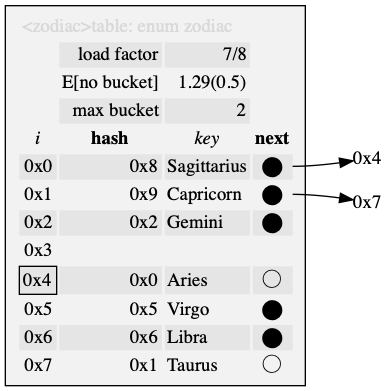
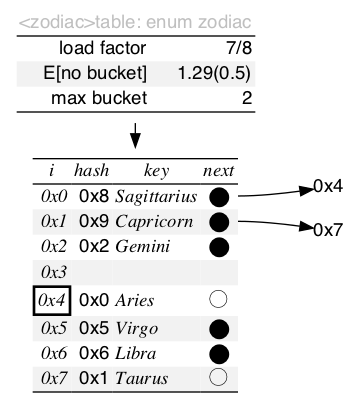
Updated cover picture and docs.

diff --git a/readme.html b/readme.html
@@ -50,7 +50,7 @@
 
 <h2><a id = "preamble:" name = "preamble:">Description</a></h2>
 
-<p><img alt = "Example of &lt;string&gt;table." src = "doc/table.png" width = 388 height = 391></p>
+<p><img alt = "Example of &lt;string&gt;table." src = "doc/table.png" width = 349 height = 407></p>
 
 <p><a href = "#tag:&lt;N&gt;table">&lt;N&gt;table</a> implements a set or map of <a href = "#typedef:&lt;PN&gt;entry">&lt;PN&gt;entry</a> as a hash table. It must be supplied a <a href = "#typedef:&lt;PN&gt;hash_fn">&lt;PN&gt;hash_fn</a> and, <a href = "#typedef:&lt;PN&gt;is_equal_fn">&lt;PN&gt;is_equal_fn</a> or <a href = "#typedef:&lt;PN&gt;inverse_hash_fn">&lt;PN&gt;inverse_hash_fn</a>.</p>
 
@@ -101,9 +101,9 @@
 
 <h3><a id = "typedef:<PN>hash_fn" name = "typedef:<PN>hash_fn">&lt;PN&gt;hash_fn</a></h3>
 
-<p><code>typedef &lt;PN&gt;uint(*<strong>&lt;PN&gt;hash_fn</strong>)(&lt;PN&gt;key_c);</code></p>
+<p><code>typedef &lt;PN&gt;uint(*<strong>&lt;PN&gt;hash_fn</strong>)(const &lt;PN&gt;key);</code></p>
 
-<p>A map from <a href = "#typedef:&lt;PN&gt;key_c">&lt;PN&gt;key_c</a> onto <a href = "#typedef:&lt;PN&gt;uint">&lt;PN&gt;uint</a> that, ideally, should be easy to compute while minimizing duplicate addresses. Must be consistent for each value while in the table. If <a href = "#typedef:&lt;PN&gt;key">&lt;PN&gt;key</a> is a pointer, one is permitted to have null in the domain.</p>
+<p>A map from <a href = "#typedef:&lt;PN&gt;key_c">&lt;PN&gt;key_c</a> onto <a href = "#typedef:&lt;PN&gt;uint">&lt;PN&gt;uint</a>, called <code>&lt;N&gt;hash</code>, that, ideally, should be easy to compute while minimizing duplicate addresses. Must be consistent for each value while in the table. If <a href = "#typedef:&lt;PN&gt;key">&lt;PN&gt;key</a> is a pointer, one is permitted to have null in the domain.</p>
 
 </div>
 
@@ -113,7 +113,7 @@
 
 <p><code>typedef &lt;PN&gt;key(*<strong>&lt;PN&gt;inverse_hash_fn</strong>)(&lt;PN&gt;uint);</code></p>
 
-<p>Defining <code>TABLE_INVERSE</code> says <a href = "#typedef:&lt;PN&gt;hash_fn">&lt;PN&gt;hash_fn</a> forms a bijection between the range in <a href = "#typedef:&lt;PN&gt;key">&lt;PN&gt;key</a> and the image in <a href = "#typedef:&lt;PN&gt;uint">&lt;PN&gt;uint</a>. Keys are not stored in the hash table, rather they are generated using this inverse-mapping.</p>
+<p>Defining <code>TABLE_INVERSE</code> says <a href = "#typedef:&lt;PN&gt;hash_fn">&lt;PN&gt;hash_fn</a> forms a bijection between the range in <a href = "#typedef:&lt;PN&gt;key">&lt;PN&gt;key</a> and the image in <a href = "#typedef:&lt;PN&gt;uint">&lt;PN&gt;uint</a>, and the inverse is called <code>&lt;N&gt;inverse_hash</code>. In this case, keys are not stored in the hash table, rather they are generated using this inverse-mapping.</p>
 
 </div>
 
@@ -123,7 +123,7 @@
 
 <p><code>typedef int(*<strong>&lt;PN&gt;is_equal_fn</strong>)(&lt;PN&gt;key_c a, &lt;PN&gt;key_c b);</code></p>
 
-<p>Equivalence relation between <a href = "#typedef:&lt;PN&gt;key">&lt;PN&gt;key</a> that satisfies <code>&lt;PN&gt;is_equal_fn(a, b) -&gt; &lt;PN&gt;hash(a) == &lt;PN&gt;hash(b)</code>. Can not be set if <code>TABLE_INVERSE</code>, because the comparison is done directly in hash space, in that case.</p>
+<p>Equivalence relation between <a href = "#typedef:&lt;PN&gt;key">&lt;PN&gt;key</a> that satisfies <code>&lt;PN&gt;is_equal_fn(a, b) -&gt; &lt;PN&gt;hash(a) == &lt;PN&gt;hash(b)</code>, called <code>&lt;N&gt;is_equal</code>. If <code>TABLE_INVERSE</code> is set, there is no need for this function because the comparison is done directly in hash space.</p>
 
 </div>
 
@@ -291,9 +291,9 @@
 
 <tr><td align = right>static void</td><td><a href = "#fn:<ITR>trim">&lt;ITR&gt;trim</a></td><td>box, predicate</td></tr>
 
-<tr><td align = right>static &lt;PN&gt;value</td><td><a href = "#fn:<N>table<D>get">&lt;N&gt;table&lt;D&gt;get</a></td><td>table, key</td></tr>
-
 <tr><td align = right>static const char *</td><td><a href = "#fn:<STR>to_string">&lt;STR&gt;to_string</a></td><td>box</td></tr>
+
+<tr><td align = right>static &lt;PN&gt;value</td><td><a href = "#fn:<N>table<D>get">&lt;N&gt;table&lt;D&gt;get</a></td><td>table, key</td></tr>
 
 </table>
 
@@ -681,23 +681,6 @@
 
 <div>
 
-<h3><a id = "fn:<N>table<D>get" name = "fn:<N>table<D>get">&lt;N&gt;table&lt;D&gt;get</a></h3>
-
-<p><code>static &lt;PN&gt;value <strong>&lt;N&gt;table&lt;D&gt;get</strong>(struct &lt;N&gt;table *const <em>table</em>, const &lt;PN&gt;key <em>key</em>)</code></p>
-
-<p>This is functionally identical to <a href = "#fn:&lt;N&gt;table_get_or">&lt;N&gt;table_get_or</a>, but a with a trait specifying a constant default value.</p>
-
-<dl>
-	<dt>Return:</dt>
-	<dd>The value associated with <code>key</code> in <code>table</code>, (which can be null.) If no such value exists, the <code>TABLE_DEFAULT</code> is returned.</dd>
-	<dt>Order:</dt>
-	<dd>Average &#927;(1); worst &#927;(n).</dd>
-</dl>
-
-</div>
-
-<div>
-
 <h3><a id = "fn:<STR>to_string" name = "fn:<STR>to_string">&lt;STR&gt;to_string</a></h3>
 
 <p><code>static const char *<strong>&lt;STR&gt;to_string</strong>(const &lt;PSTR&gt;box *const <em>box</em>)</code></p>
@@ -709,6 +692,23 @@
 	<dd>Address of the static buffer.</dd>
 	<dt>Order:</dt>
 	<dd>&#920;(1)</dd>
+</dl>
+
+</div>
+
+<div>
+
+<h3><a id = "fn:<N>table<D>get" name = "fn:<N>table<D>get">&lt;N&gt;table&lt;D&gt;get</a></h3>
+
+<p><code>static &lt;PN&gt;value <strong>&lt;N&gt;table&lt;D&gt;get</strong>(struct &lt;N&gt;table *const <em>table</em>, const &lt;PN&gt;key <em>key</em>)</code></p>
+
+<p>This is functionally identical to <a href = "#fn:&lt;N&gt;table_get_or">&lt;N&gt;table_get_or</a>, but a with a trait specifying a constant default value.</p>
+
+<dl>
+	<dt>Return:</dt>
+	<dd>The value associated with <code>key</code> in <code>table</code>, (which can be null.) If no such value exists, the <code>TABLE_DEFAULT</code> is returned.</dd>
+	<dt>Order:</dt>
+	<dd>Average &#927;(1); worst &#927;(n).</dd>
 </dl>
 
 </div>

diff --git a/src/table.h b/src/table.h
@@ -856,8 +856,8 @@ static void PN_(unused_base_coda)(void) { PN_(unused_base)(); }
 
 
 #ifdef TABLE_TO_STRING /* <!-- to string trait */
-/** Private <tag:<PN>bucket> would be a confusing thing with which to call
- to string. Insert an extra level of indirection to call this with the key. */
+/** Private `bucket` would be a confusing thing with which to call to string to
+ convert `z`. Insert an extra level of indirection to call this with the key. */
 static void N_(to_string_thunk)(const struct PN_(bucket) *const bucket,
 	char (*const z)[12]) {
 	/* This function must be defined by the user. */

diff --git a/readme.md b/readme.md
@@ -57,9 +57,9 @@ Valid tag type defined by `TABLE_KEY` used for keys\. If `TABLE_INVERSE` is not 
 
 ### <a id = "user-content-typedef-5e79a292" name = "user-content-typedef-5e79a292">&lt;PN&gt;hash_fn</a> ###
 
-<code>typedef &lt;PN&gt;uint(*<strong>&lt;PN&gt;hash_fn</strong>)(&lt;PN&gt;key_c);</code>
+<code>typedef &lt;PN&gt;uint(*<strong>&lt;PN&gt;hash_fn</strong>)(const &lt;PN&gt;key);</code>
 
-A map from [&lt;PN&gt;key_c](#user-content-typedef-46bcab6a) onto [&lt;PN&gt;uint](#user-content-typedef-c13937ad) that, ideally, should be easy to compute while minimizing duplicate addresses\. Must be consistent for each value while in the table\. If [&lt;PN&gt;key](#user-content-typedef-e7af8dc0) is a pointer, one is permitted to have null in the domain\.
+A map from [&lt;PN&gt;key_c](#user-content-typedef-46bcab6a) onto [&lt;PN&gt;uint](#user-content-typedef-c13937ad), called `<N>hash`, that, ideally, should be easy to compute while minimizing duplicate addresses\. Must be consistent for each value while in the table\. If [&lt;PN&gt;key](#user-content-typedef-e7af8dc0) is a pointer, one is permitted to have null in the domain\.
 
 
 
@@ -67,7 +67,7 @@ A map from [&lt;PN&gt;key_c](#user-content-typedef-46bcab6a) onto [&lt;PN&gt;uin
 
 <code>typedef &lt;PN&gt;key(*<strong>&lt;PN&gt;inverse_hash_fn</strong>)(&lt;PN&gt;uint);</code>
 
-Defining `TABLE_INVERSE` says [&lt;PN&gt;hash_fn](#user-content-typedef-5e79a292) forms a bijection between the range in [&lt;PN&gt;key](#user-content-typedef-e7af8dc0) and the image in [&lt;PN&gt;uint](#user-content-typedef-c13937ad)\. Keys are not stored in the hash table, rather they are generated using this inverse\-mapping\.
+Defining `TABLE_INVERSE` says [&lt;PN&gt;hash_fn](#user-content-typedef-5e79a292) forms a bijection between the range in [&lt;PN&gt;key](#user-content-typedef-e7af8dc0) and the image in [&lt;PN&gt;uint](#user-content-typedef-c13937ad), and the inverse is called `<N>inverse_hash`\. In this case, keys are not stored in the hash table, rather they are generated using this inverse\-mapping\.
 
 
 
@@ -75,7 +75,7 @@ Defining `TABLE_INVERSE` says [&lt;PN&gt;hash_fn](#user-content-typedef-5e79a292
 
 <code>typedef int(*<strong>&lt;PN&gt;is_equal_fn</strong>)(&lt;PN&gt;key_c a, &lt;PN&gt;key_c b);</code>
 
-Equivalence relation between [&lt;PN&gt;key](#user-content-typedef-e7af8dc0) that satisfies `<PN>is_equal_fn(a, b) -> <PN>hash(a) == <PN>hash(b)`\. Can not be set if `TABLE_INVERSE`, because the comparison is done directly in hash space, in that case\.
+Equivalence relation between [&lt;PN&gt;key](#user-content-typedef-e7af8dc0) that satisfies `<PN>is_equal_fn(a, b) -> <PN>hash(a) == <PN>hash(b)`, called `<N>is_equal`\. If `TABLE_INVERSE` is set, there is no need for this function because the comparison is done directly in hash space\.
 
 
 
@@ -221,9 +221,9 @@ Adding, deleting, successfully looking up entries, or any modification of the ta
 
 <tr><td align = right>static void</td><td><a href = "#user-content-fn-108e9df6">&lt;ITR&gt;trim</a></td><td>box, predicate</td></tr>
 
-<tr><td align = right>static &lt;PN&gt;value</td><td><a href = "#user-content-fn-92774ccb">&lt;N&gt;table&lt;D&gt;get</a></td><td>table, key</td></tr>
-
 <tr><td align = right>static const char *</td><td><a href = "#user-content-fn-751c6337">&lt;STR&gt;to_string</a></td><td>box</td></tr>
+
+<tr><td align = right>static &lt;PN&gt;value</td><td><a href = "#user-content-fn-92774ccb">&lt;N&gt;table&lt;D&gt;get</a></td><td>table, key</td></tr>
 
 </table>
 
@@ -537,20 +537,6 @@ Removes `key` from `table` \(which could be null\.\)
 
 
 
-### <a id = "user-content-fn-92774ccb" name = "user-content-fn-92774ccb">&lt;N&gt;table&lt;D&gt;get</a> ###
-
-<code>static &lt;PN&gt;value <strong>&lt;N&gt;table&lt;D&gt;get</strong>(struct &lt;N&gt;table *const <em>table</em>, const &lt;PN&gt;key <em>key</em>)</code>
-
-This is functionally identical to [&lt;N&gt;table_get_or](#user-content-fn-638dcc26), but a with a trait specifying a constant default value\.
-
- * Return:  
-   The value associated with `key` in `table`, \(which can be null\.\) If no such value exists, the `TABLE_DEFAULT` is returned\.
- * Order:  
-   Average &#927;\(1\); worst &#927;\(n\)\.
-
-
-
-
 ### <a id = "user-content-fn-751c6337" name = "user-content-fn-751c6337">&lt;STR&gt;to_string</a> ###
 
 <code>static const char *<strong>&lt;STR&gt;to_string</strong>(const &lt;PSTR&gt;box *const <em>box</em>)</code>
@@ -561,6 +547,20 @@ This is functionally identical to [&lt;N&gt;table_get_or](#user-content-fn-638dc
    Address of the static buffer\.
  * Order:  
    &#920;\(1\)
+
+
+
+
+### <a id = "user-content-fn-92774ccb" name = "user-content-fn-92774ccb">&lt;N&gt;table&lt;D&gt;get</a> ###
+
+<code>static &lt;PN&gt;value <strong>&lt;N&gt;table&lt;D&gt;get</strong>(struct &lt;N&gt;table *const <em>table</em>, const &lt;PN&gt;key <em>key</em>)</code>
+
+This is functionally identical to [&lt;N&gt;table_get_or](#user-content-fn-638dcc26), but a with a trait specifying a constant default value\.
+
+ * Return:  
+   The value associated with `key` in `table`, \(which can be null\.\) If no such value exists, the `TABLE_DEFAULT` is returned\.
+ * Order:  
+   Average &#927;\(1\); worst &#927;\(n\)\.
 
 
 
